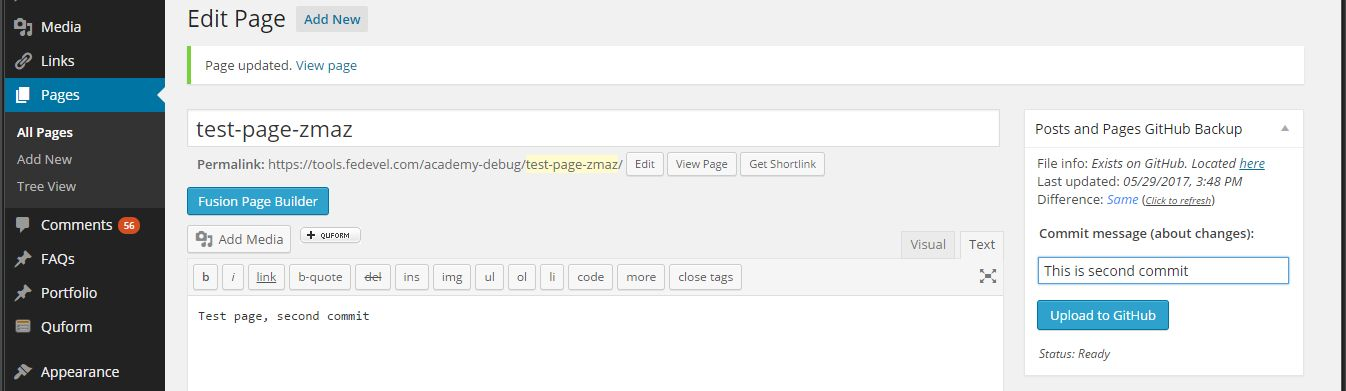
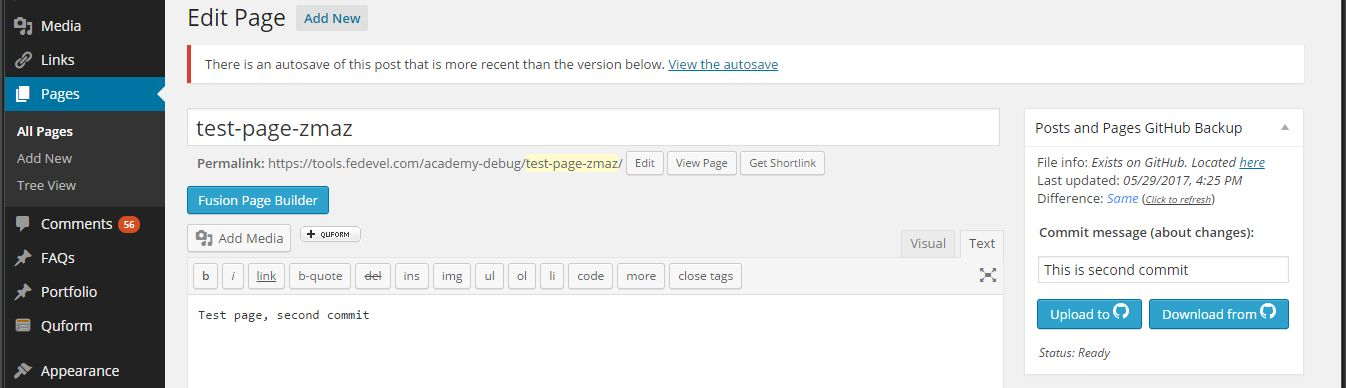
Download to Github button added

diff --git a/include/main.js b/include/main.js
@@ -5,6 +5,52 @@
 
 github_update_file_info(); //show the initial info about the file
 
+function download_file_from_github(){
+
+    //get the original file content as soon as possible
+    var original_filecontent = document.getElementById('content');
+
+    //Status bar element
+    var status_line = document.getElementById('save-to-github-status');
+    status_line.innerHTML = '<span>Status: Connecting ...</span>';
+
+    //File info elements
+    var github_file_difference_info = document.getElementById('github_file_difference_info');
+
+    //Prepare variables for the API request
+    var branch = "master";
+    var filename = get_path_and_file_name(); //for example "test2/firstfile.txt" (include also the relative path)
+    var contents_url = document.getElementById('api_url_to_repository').value; //for example https://api.github.com/repos/FEDEVEL/wordpress-web
+    var github_token = document.getElementById('github_token').value; //token needed for login to github
+
+    var apiurl = contents_url + '/contents/'+ filename; //path to the file
+    var filedata = '{"ref":"' + branch + '"}';
+
+    //Send the request to GitHub
+    jQuery.ajax({
+        url: apiurl,
+        type: 'GET',
+        beforeSend: function (xhr) {
+            xhr.setRequestHeader("Authorization", "token " + github_token);
+        },
+        data: filedata
+
+    }).done(function (response) {
+        //We have the file info and content
+
+        //We are going to replace the content in editor
+        var basecontent = atob(response.content); //we have to change the received file content back from base64
+        original_filecontent.value = basecontent;
+        //console.log(basecontent); //show content of the file
+
+        github_update_file_info(); //update all the info
+
+    }).fail(function (response) {
+        status_line.innerHTML = '<span style="color: red">Status: Error. Could not be downloaded.</span>';
+    });
+
+}
+
 //check if file exists on github, get its latest commit info
 function github_update_file_info(){
 
@@ -45,6 +91,10 @@ function github_update_file_info(){
         if (!((response === null) || (response.length === 0))) //if response is empty, then the file doesn't exists
         {
             //File exists
+
+            //enable download button
+            var download_from_github = document.getElementById('download-from-github');
+            download_from_github.classList.remove('disabled');
 
             //We are going to show the date of latest commit on the web. To do so, the date received from github has to be adjusted and re-formatted
             var commit_date = response[0].commit.committer.date; //get the commit date from response
@@ -94,6 +144,7 @@ function github_update_file_info(){
             //The file doesn't exists
             github_file_exists_info.innerHTML = 'File info: <span style="font-style: italic">Not found on GitHub</span>';
             github_file_updated_info.innerHTML = 'Last updated: <span style="font-style: italic">Never</span>';
+            github_file_difference_info.innerHTML = 'Difference: N/A';
             status_line.innerHTML = '<span>Status: Ready</span>';
         }
 

diff --git a/include/main.php b/include/main.php
@@ -125,7 +125,10 @@
         echo '<p style="margin-top:15px; margin-left:2px;"><strong>Commit message (about changes):</strong></p>';
         echo '<label class="screen-reader-text" for="mit-message-for-github">Commit message:</label>';
         echo '<input id="commit-message-for-github" name="commit-message-for-github" type="text" placeholder="Your comment about the changes" style="width:99%;"><br>';
-        echo '<div id="github-update-action" style="margin-top:15px;"><span id="save-to-github" class="button button-primary button-large" onclick="create_or_update_file_on_github()">Upload to GitHub</span></div>';
+        echo '<div id="github-update-action" style="margin-top:15px;">';
+        echo    '<span id="save-to-github" class="button button-primary button-large" onclick="create_or_update_file_on_github()">Upload to <img src="'.plugin_dir_url(__FILE__).'../images/GitHub-Mark-Light-32px.png" alt="Github" height="16"></span>';
+        echo    '<span id="download-from-github" style="margin-left: 7px" class="button button-primary button-large disabled" onclick="download_file_from_github()">Download from <img src="'.plugin_dir_url(__FILE__).'../images/GitHub-Mark-Light-32px.png" alt="Github" height="16" ></span>';
+        echo '</div>';
         echo '<div style="margin-top:15px; margin-left:2px; font-style: italic; font-size: 12px;"><span id="save-to-github-status">Status: Ready</span></div>';
 
     }
